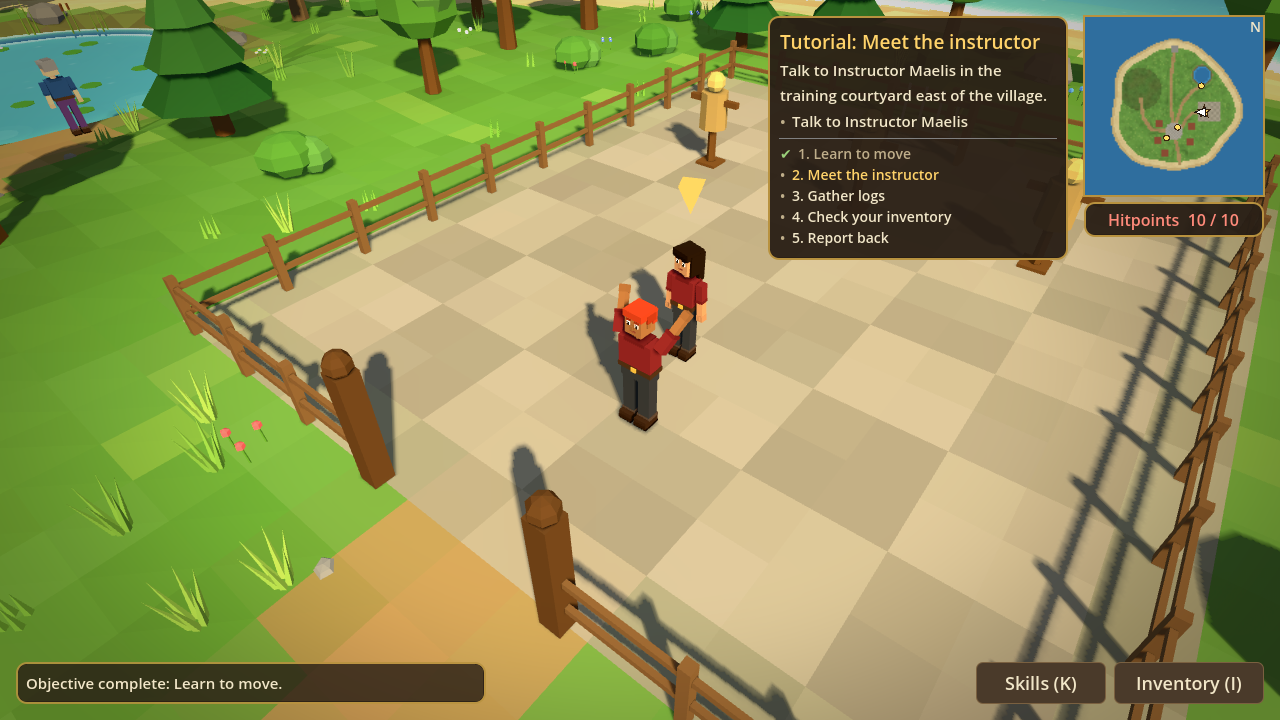
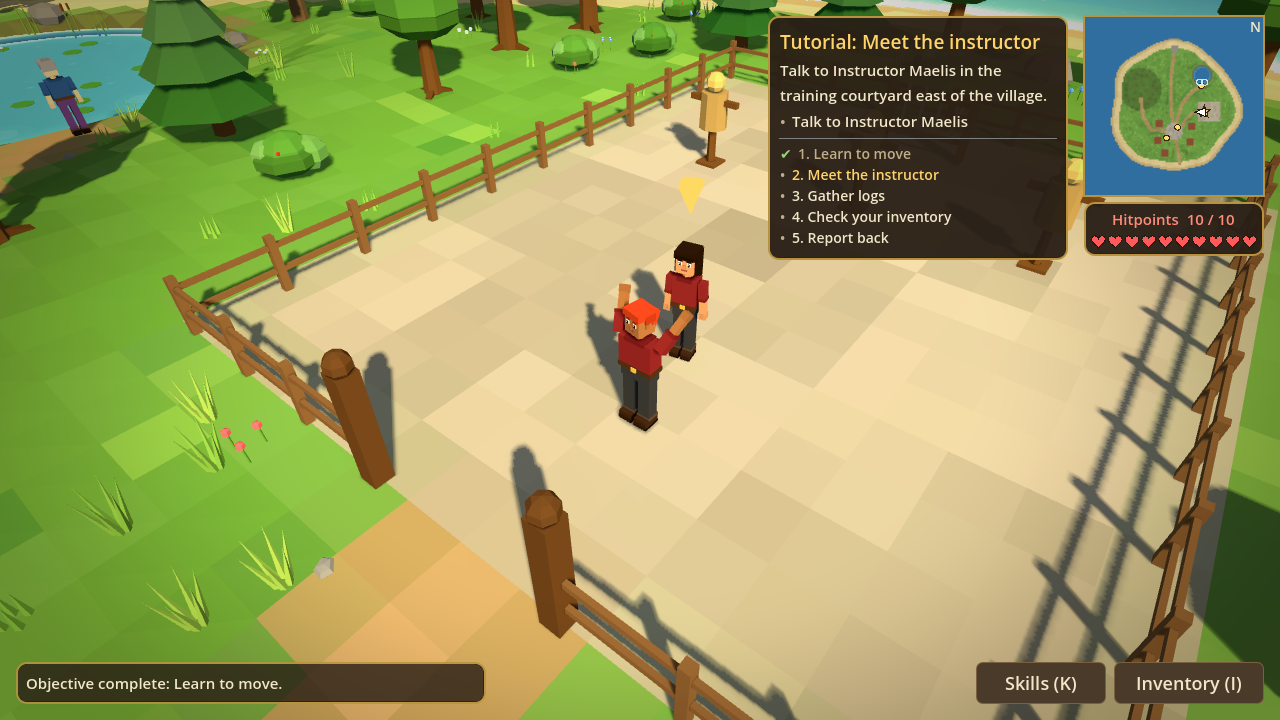
Record the graphics revamp: verification notes, perf report and screenshots
Claude-Session: https://claude.ai/code/session_013yDGLy1rtX7aAre5XQubCE

diff --git a/EmbervaleRebuild/VERIFICATION.md b/EmbervaleRebuild/VERIFICATION.md
@@ -137,3 +137,19 @@ Drop could discard a stack that changed while the confirmation was open; writing
 corrupt primary destroyed it (it is now preserved); lighting and fishing now recheck the tinderbox
 and rod at completion; pending rewards that fit and logs already held are credited on load; a
 pending interaction that gets stuck now says "You can't reach that."
+
+## Graphics revamp and game-feel pass
+
+- Terrain: flagstone plaza/courtyard (hashed shades, no checkerboard), meadow patches in the grass.
+  Props: multi-lobed canopies with shaded undersides and root wedges, four-tier pines,
+  timber-framed cottages with shutters/window boxes/door steps/chimney caps, bushier bushes with
+  berries. Variation comes from position hashes, so the island RNG sequence and every prop position
+  are unchanged (world suite: determinism, landmarks and reachability still pass).
+- HUD/feel: hearts bar, centred level-up/task banner, message log fading after 8 s idle, minimap
+  fires and fishing spots, hover ring under interactables, running dust, villagers looking at the
+  player, ember emblem on the menu.
+- All suites pass (111 tests). Perf (`docs/perf_revamp.txt`): worst view 210 draw calls (target 260,
+  limit 450); warm generation 1221 ms (limit 1500) on a container that measured ~1.7x slower than
+  the M6 run even on untouched stages. Generation was trimmed (path bounding-box rejects, deep-sea
+  texels skipped in the depth bake) to keep margin.
+- Screenshots: `docs/screenshots/flow/` (whole flow) and `docs/screenshots/revamp/` (fixed views).
